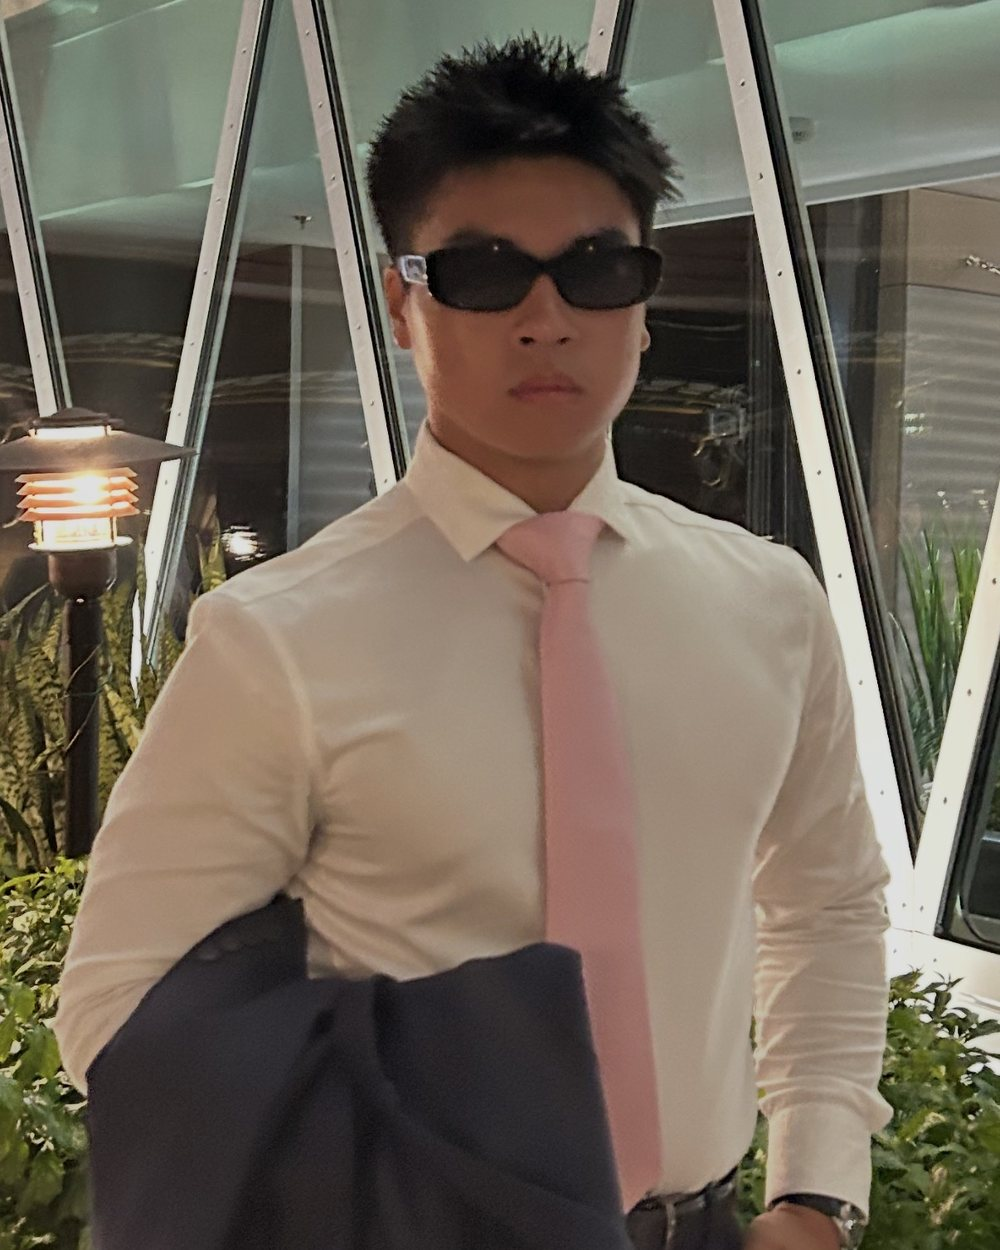
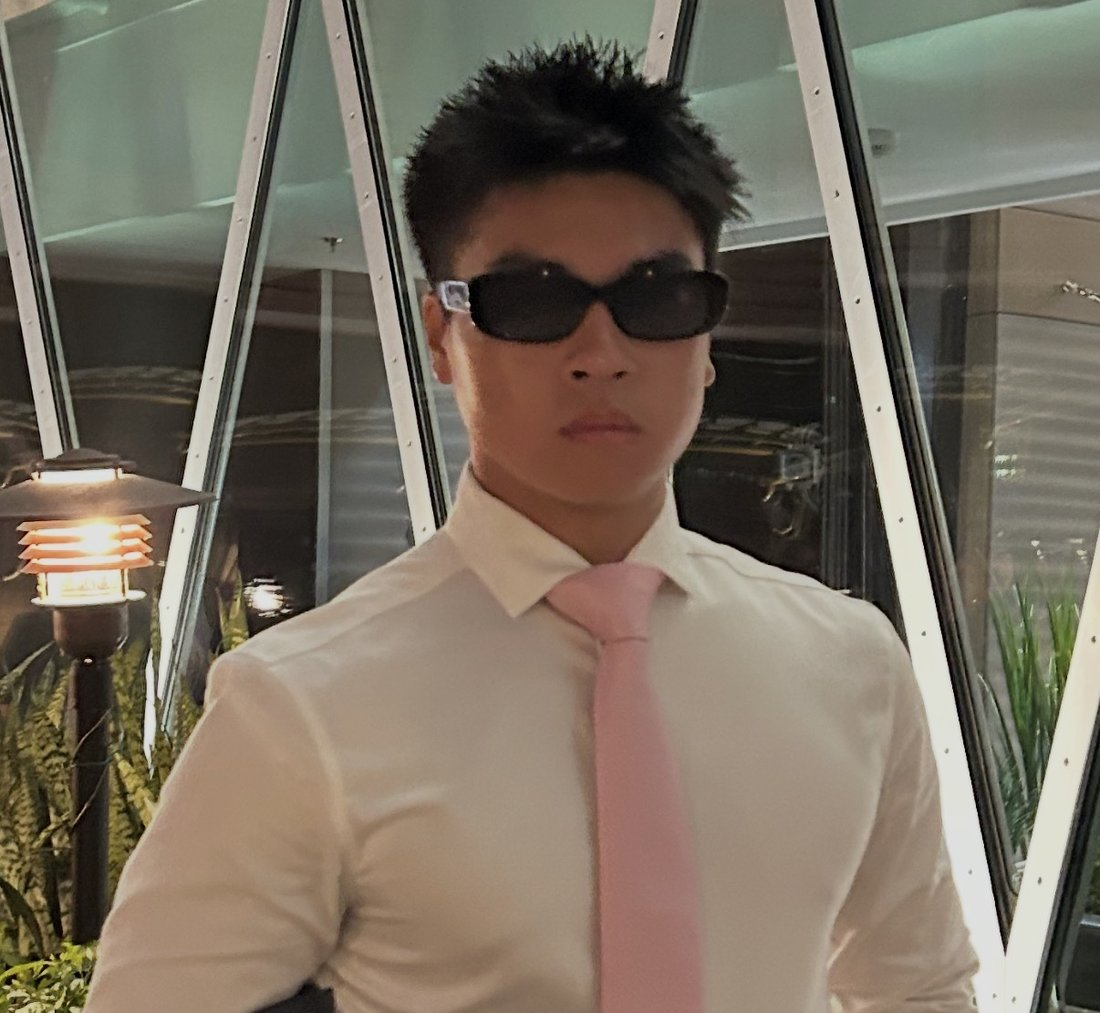
New portrait crop, consistent photo grade, restyled illustrations

diff --git a/index.html b/index.html
@@ -26,7 +26,7 @@
 <link rel="preconnect" href="https://fonts.googleapis.com">
 <link rel="preconnect" href="https://fonts.gstatic.com" crossorigin>
 <link href="https://fonts.googleapis.com/css2?family=Figtree:wght@300;400;500;600;700&display=swap" rel="stylesheet">
-<link rel="stylesheet" href="site.css?v=9">
+<link rel="stylesheet" href="site.css?v=10">
 </head>
 
 <body>
@@ -84,7 +84,7 @@
     <section class="band" id="intro">
       <div class="wrap intro">
         <figure class="portrait rv">
-          <img src="images/nathan-portrait.jpg" alt="Nathan Tran in a white shirt and pink tie" width="1000" height="1250">
+          <img src="images/nathan-portrait.jpg" alt="Nathan Tran in a white shirt and pink tie" width="1100" height="1013">
           <figcaption><span>Extended Horizon Lab</span><span>NC State</span></figcaption>
         </figure>
         <div class="rv" style="--d:.1s">
@@ -155,7 +155,7 @@
           </div>
         </a>
         <a class="slide" href="projects.html#playground">
-          <div class="slide-media"><img class="fit" src="images/playground.jpg" alt="" loading="lazy"></div>
+          <div class="slide-media"><img src="images/cover-playground.jpg" alt="" loading="lazy"></div>
           <div class="slide-body">
             <span class="tag">Projection-based XR</span>
             <h3>Playground+</h3>
@@ -164,7 +164,7 @@
           </div>
         </a>
         <a class="slide" href="projects.html#pulsecoach">
-          <div class="slide-media"><img src="images/pulsecoach.jpg" alt="" loading="lazy"></div>
+          <div class="slide-media"><img src="images/cover-pulsecoach.jpg" alt="" loading="lazy"></div>
           <div class="slide-body">
             <span class="tag">Biometrics &middot; AR</span>
             <h3>PulseCoach</h3>

diff --git a/projects.html b/projects.html
@@ -26,7 +26,7 @@
 <link rel="preconnect" href="https://fonts.googleapis.com">
 <link rel="preconnect" href="https://fonts.gstatic.com" crossorigin>
 <link href="https://fonts.googleapis.com/css2?family=Figtree:wght@300;400;500;600;700&display=swap" rel="stylesheet">
-<link rel="stylesheet" href="site.css?v=9">
+<link rel="stylesheet" href="site.css?v=10">
 </head>
 
 <body>
@@ -131,7 +131,7 @@
         </li>
         <li class="pub" id="playground">
           <figure>
-            <img class="fit" src="images/playground.jpg" alt="Diagram of the Playground+ setup: a home projector and webcam mounted over a projected play area, with three stages — play ideation with a conversational agent, planning with a reasoning agent, and visualization and monitoring through a mixed-reality interface.">
+            <img src="images/cover-playground.jpg" alt="Diagram of the Playground+ setup: a home projector and webcam mounted over a projected play area, with three stages — play ideation with a conversational agent, planning with a reasoning agent, and visualization and monitoring through a mixed-reality interface.">
           </figure>
           <div>
             <h3>Playground+</h3>
@@ -151,7 +151,7 @@
         </li>
         <li class="pub" id="pulsecoach">
           <figure>
-            <img src="images/pulsecoach.jpg" alt="Illustration of a bedside scene with a patient, a clinician holding a clipboard, a person wearing a headset, and a heart-rate monitor.">
+            <img src="images/cover-pulsecoach.jpg" alt="Illustration of a bedside scene with a patient, a clinician holding a clipboard, a person wearing a headset, and a heart-rate monitor.">
           </figure>
           <div>
             <h3>PulseCoach: State-Aware AI for XR</h3>

diff --git a/site.css b/site.css
@@ -1312,3 +1312,17 @@ h1 em, h2 em, h3 em { font-style: normal; color: inherit; }
   .stage-home { padding-top: 8rem; }
 }
 .portrait figcaption { border-radius: 0; }
+
+/* ---------- one photographic grade for every photo ----------
+   Slightly muted and contrasty so photos shot anywhere sit
+   together; full colour comes back on hover.                     */
+.portrait img, .strip img {
+  filter: saturate(.72) contrast(1.08) brightness(.97);
+  transition: filter .6s ease, transform .4s ease;
+}
+.portrait:hover img, .strip figure:hover img { filter: none; }
+.portrait img { aspect-ratio: auto; object-fit: cover; }
+.strip img { aspect-ratio: 4 / 5; }
+@media (hover: none) { .portrait img, .strip img { filter: saturate(.85) contrast(1.05); } }
+:root[data-theme="dark"] .portrait img, :root[data-theme="dark"] .strip img { filter: saturate(.7) contrast(1.08) brightness(.9); }
+:root[data-theme="dark"] .portrait:hover img, :root[data-theme="dark"] .strip figure:hover img { filter: none; }

diff --git a/about.html b/about.html
@@ -26,7 +26,7 @@
 <link rel="preconnect" href="https://fonts.googleapis.com">
 <link rel="preconnect" href="https://fonts.gstatic.com" crossorigin>
 <link href="https://fonts.googleapis.com/css2?family=Figtree:wght@300;400;500;600;700&display=swap" rel="stylesheet">
-<link rel="stylesheet" href="site.css?v=9">
+<link rel="stylesheet" href="site.css?v=10">
 <!-- Globe styles are scoped to this page, so the shared stylesheet
      (and the other three pages) stay untouched. -->
 <style>

diff --git a/experience.html b/experience.html
@@ -26,7 +26,7 @@
 <link rel="preconnect" href="https://fonts.googleapis.com">
 <link rel="preconnect" href="https://fonts.gstatic.com" crossorigin>
 <link href="https://fonts.googleapis.com/css2?family=Figtree:wght@300;400;500;600;700&display=swap" rel="stylesheet">
-<link rel="stylesheet" href="site.css?v=9">
+<link rel="stylesheet" href="site.css?v=10">
 </head>
 
 <body>
